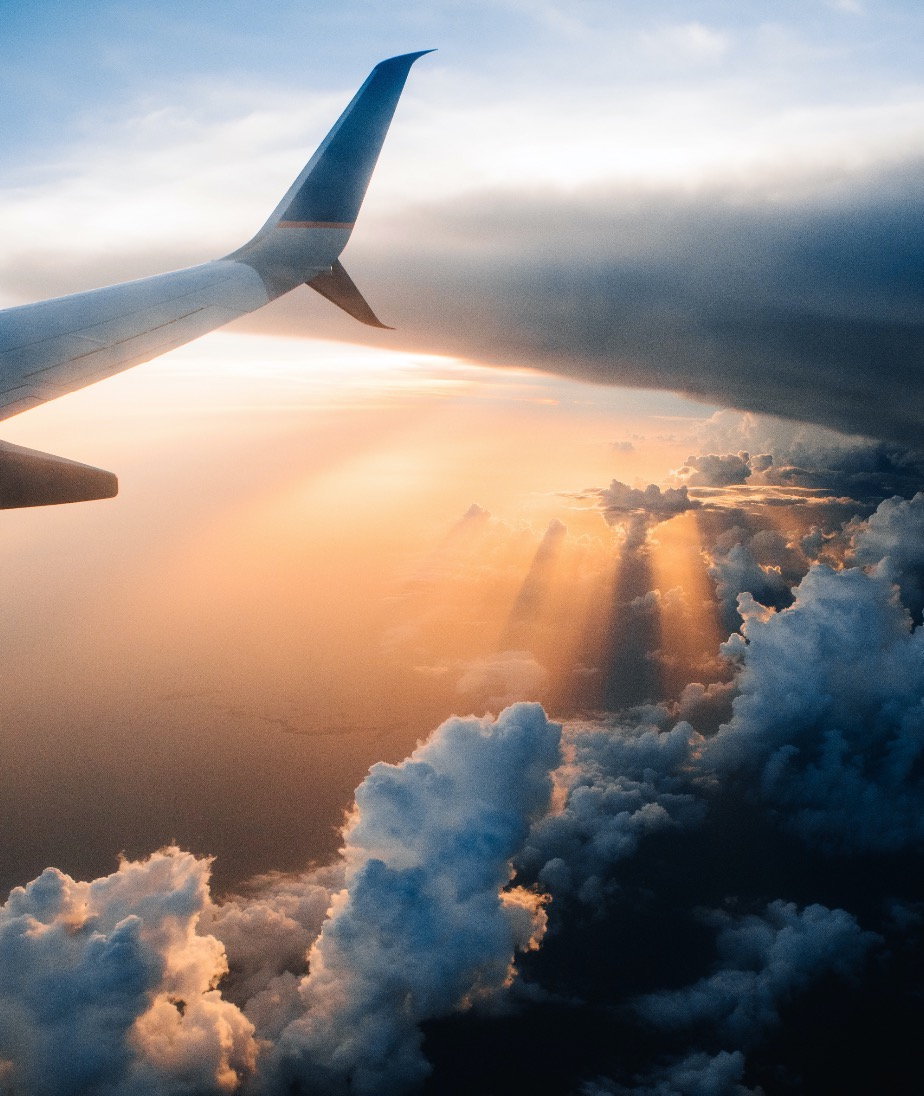
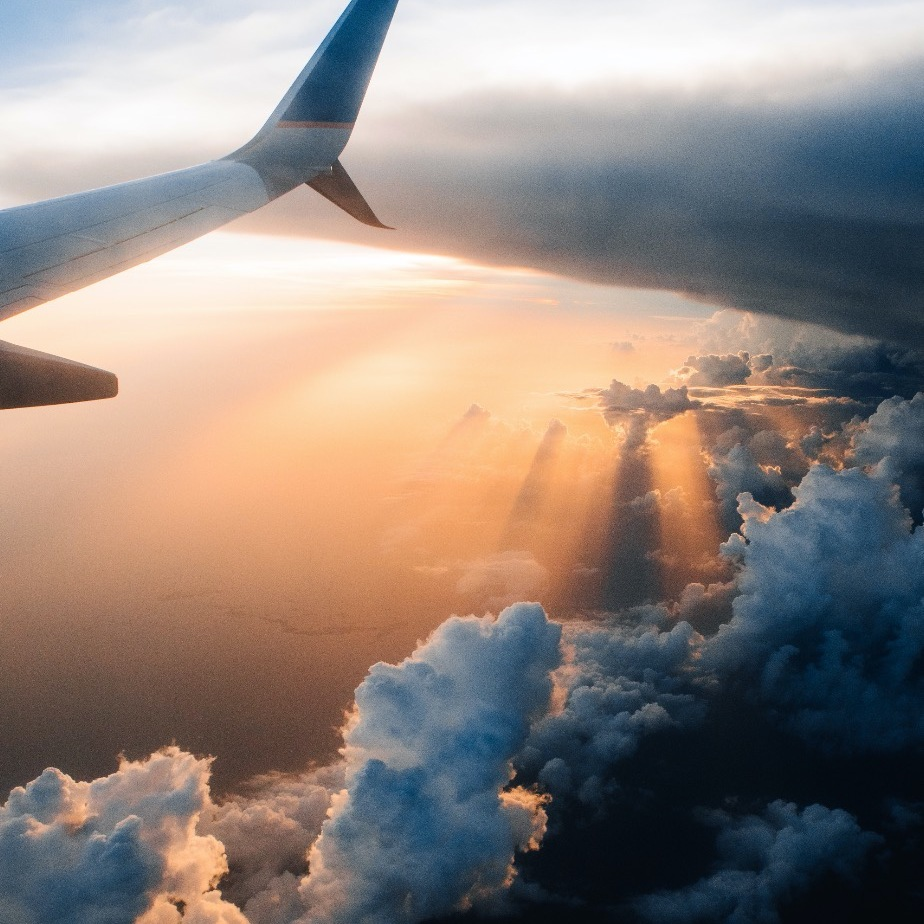
add intro block for desktop

diff --git a/index.html b/index.html
@@ -20,11 +20,13 @@
 
   <main class="content">
       <section class="intro">
-        <div>
+        <div class="intro__text">
           <p class="intro__subtitle"><a class="intro__link" name="#places">куда я поеду</a></p>
           <h1 class="intro__title">Куда я поеду сразу, как можно будет куда-то поехать</h1>
         </div>
-        <img class="intro__image" src="./images/intro-image.jpeg" alt="Фотография крыла самолёта в облаках">
+        <figure class="intro__image-frame">
+          <img class="intro__image" src="./images/intro-image.jpeg" alt="Фотография крыла самолёта в облаках">
+        </figure>
       </section>
     
 

diff --git a/pages/index.css b/pages/index.css
@@ -9,6 +9,7 @@
 @import url(../blocks/intro/__text/intro__text.css);
 @import url(../blocks/intro/__title/intro__title.css);
 @import url(../blocks/intro/__subtitle/intro__subtitle.css);
+@import url(../blocks/intro/__image-frame/intro__image-frame.css);
 @import url(../blocks/intro/__image/intro__image.css);
 @import url(../blocks/places/places.css);
 @import url(../blocks/places/__card/places__card.css);
@@ -25,7 +26,3 @@
 @import url(../blocks/quote/__title/quote__title.css);
 @import url(../blocks/quote/__subtitle/quote__subtitle.css);
 @import url(../blocks/footer/footer.css);
-
-* {
-  border: solid blueviolet 1px;
-}

diff --git a/blocks/intro/__image/intro__image.css b/blocks/intro/__image/intro__image.css
@@ -1,7 +1,4 @@
 .intro__image {
-  display: flex;
-  justify-content: center;
-  align-items: center;
-  max-width: 30%;
-  padding: auto;
+  max-width: 62%;
+  margin-left: 40px;
 }

diff --git a/blocks/intro/__image-frame/intro__image-frame.css b/blocks/intro/__image-frame/intro__image-frame.css
@@ -1,0 +1,7 @@
+.intro__image-frame {
+  display: flex;
+  align-items: center;
+  margin: 0;
+  justify-content: center;
+  height: 100%;
+}

diff --git a/blocks/intro/__text/intro__text.css b/blocks/intro/__text/intro__text.css
@@ -1,0 +1,6 @@
+.intro__text {
+  height: 100%;
+  display: flex;
+  flex-direction: column;
+  justify-content: center;
+}

diff --git a/blocks/root/root.css b/blocks/root/root.css
@@ -1,3 +1,7 @@
 .root {
   font-family: Helvetica, sans-serif;
 }
+
+/* * {
+  border: solid blueviolet 1px;
+} */

diff --git a/blocks/intro/__subtitle/intro__subtitle.css b/blocks/intro/__subtitle/intro__subtitle.css
@@ -1,3 +1,4 @@
 .intro__subtitle {
   color: #ffcfa5;
+  margin: 0 0 34px 0;
 }

diff --git a/blocks/intro/__title/intro__title.css b/blocks/intro/__title/intro__title.css
@@ -1,0 +1,4 @@
+.intro__title {
+  margin: 0;
+  line-height: 40px;
+}
